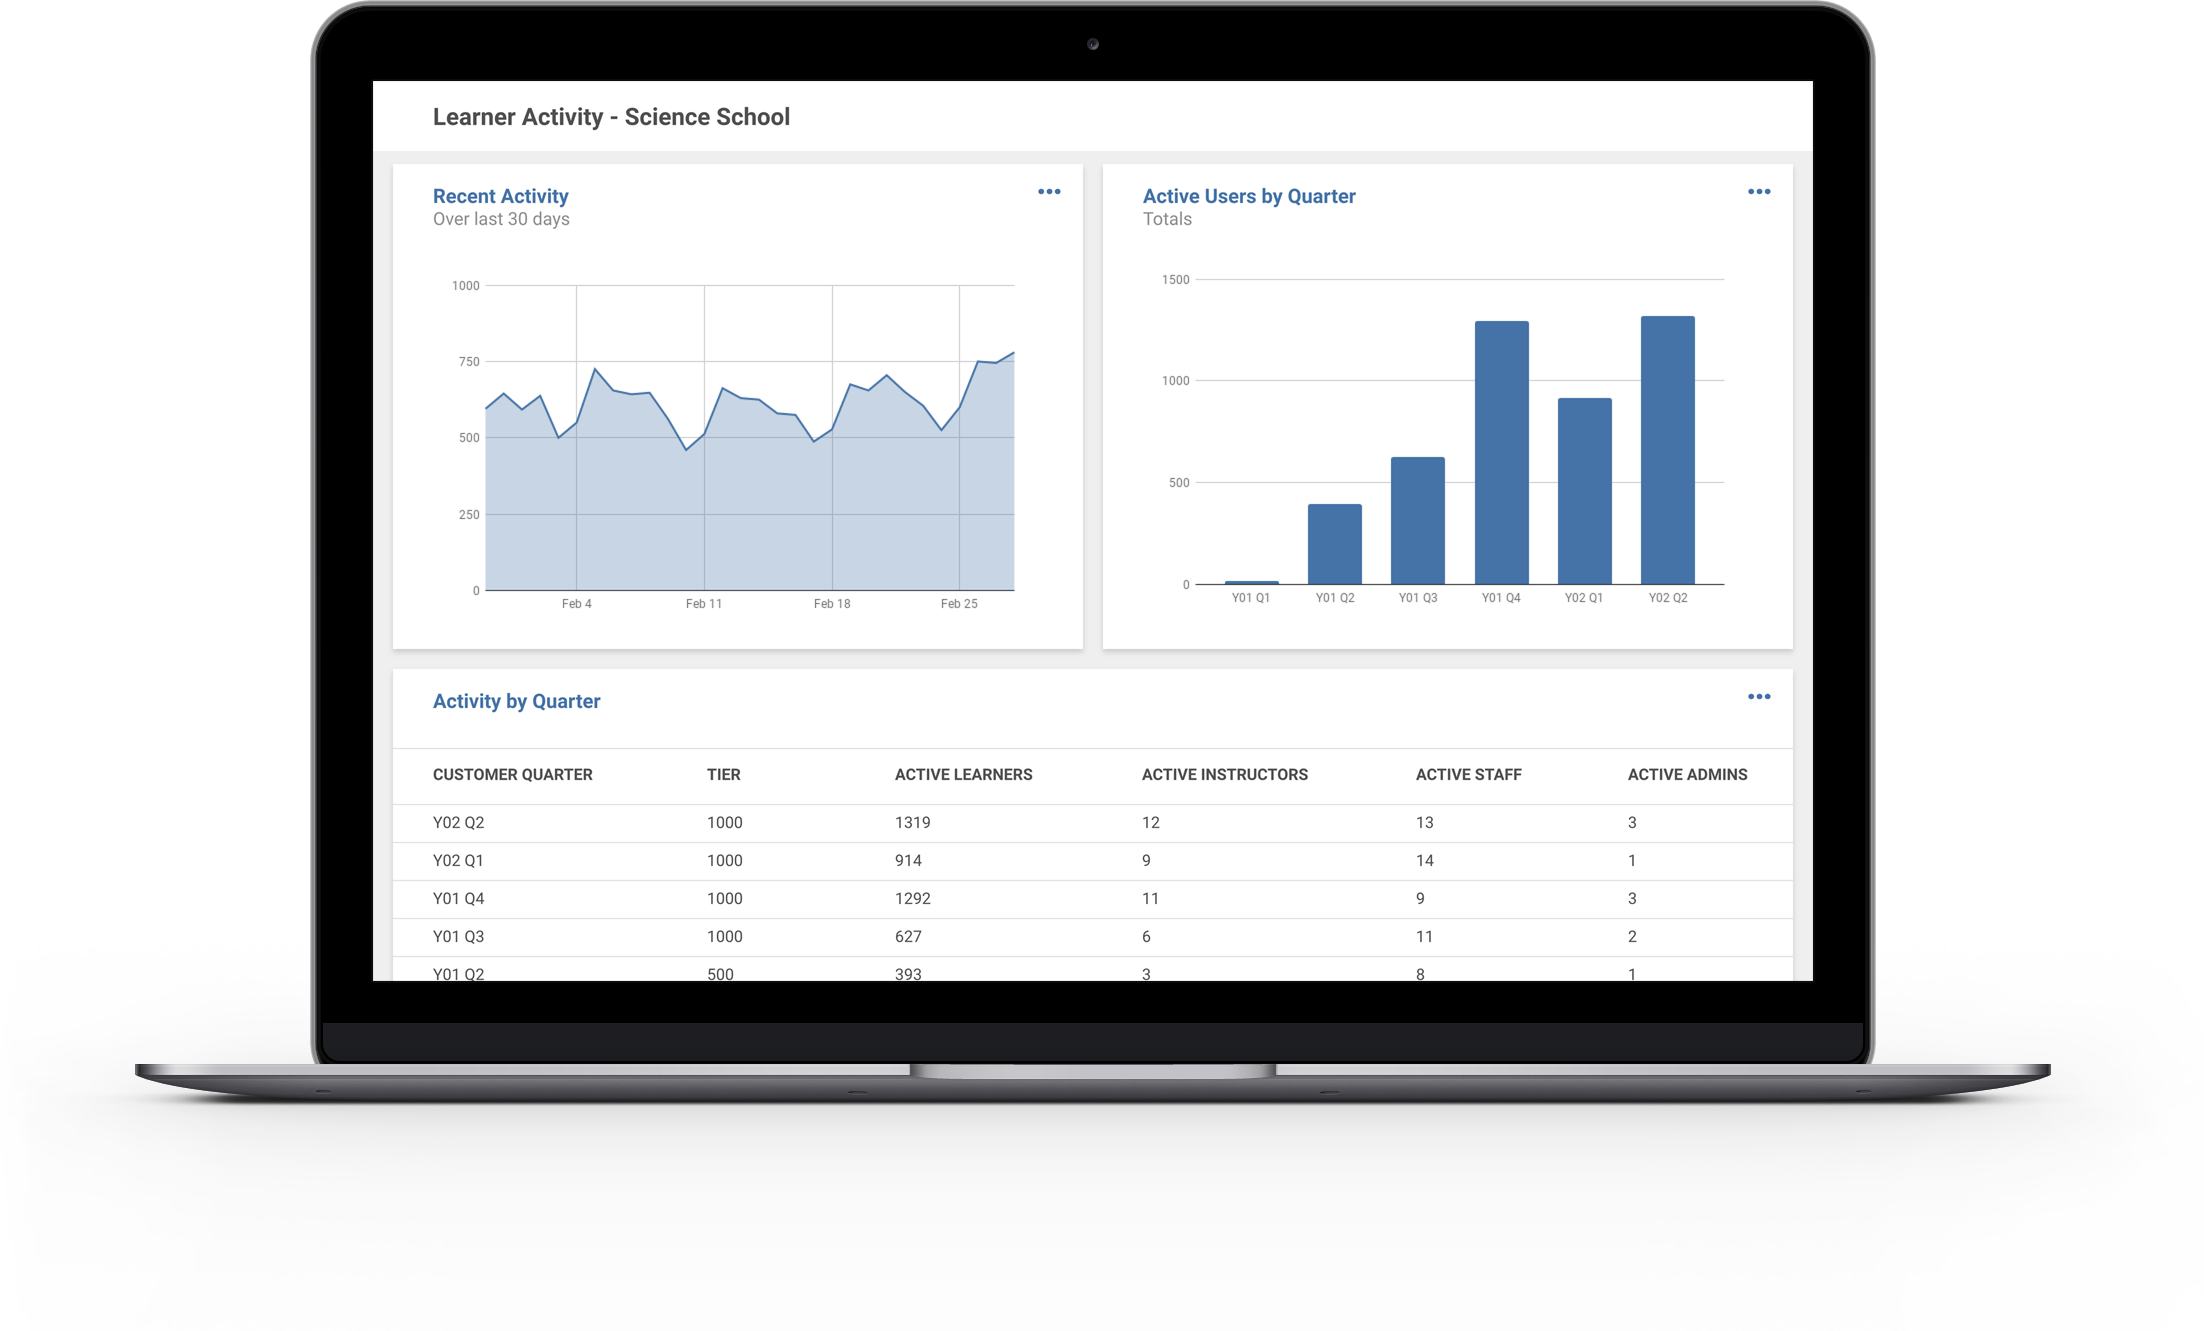
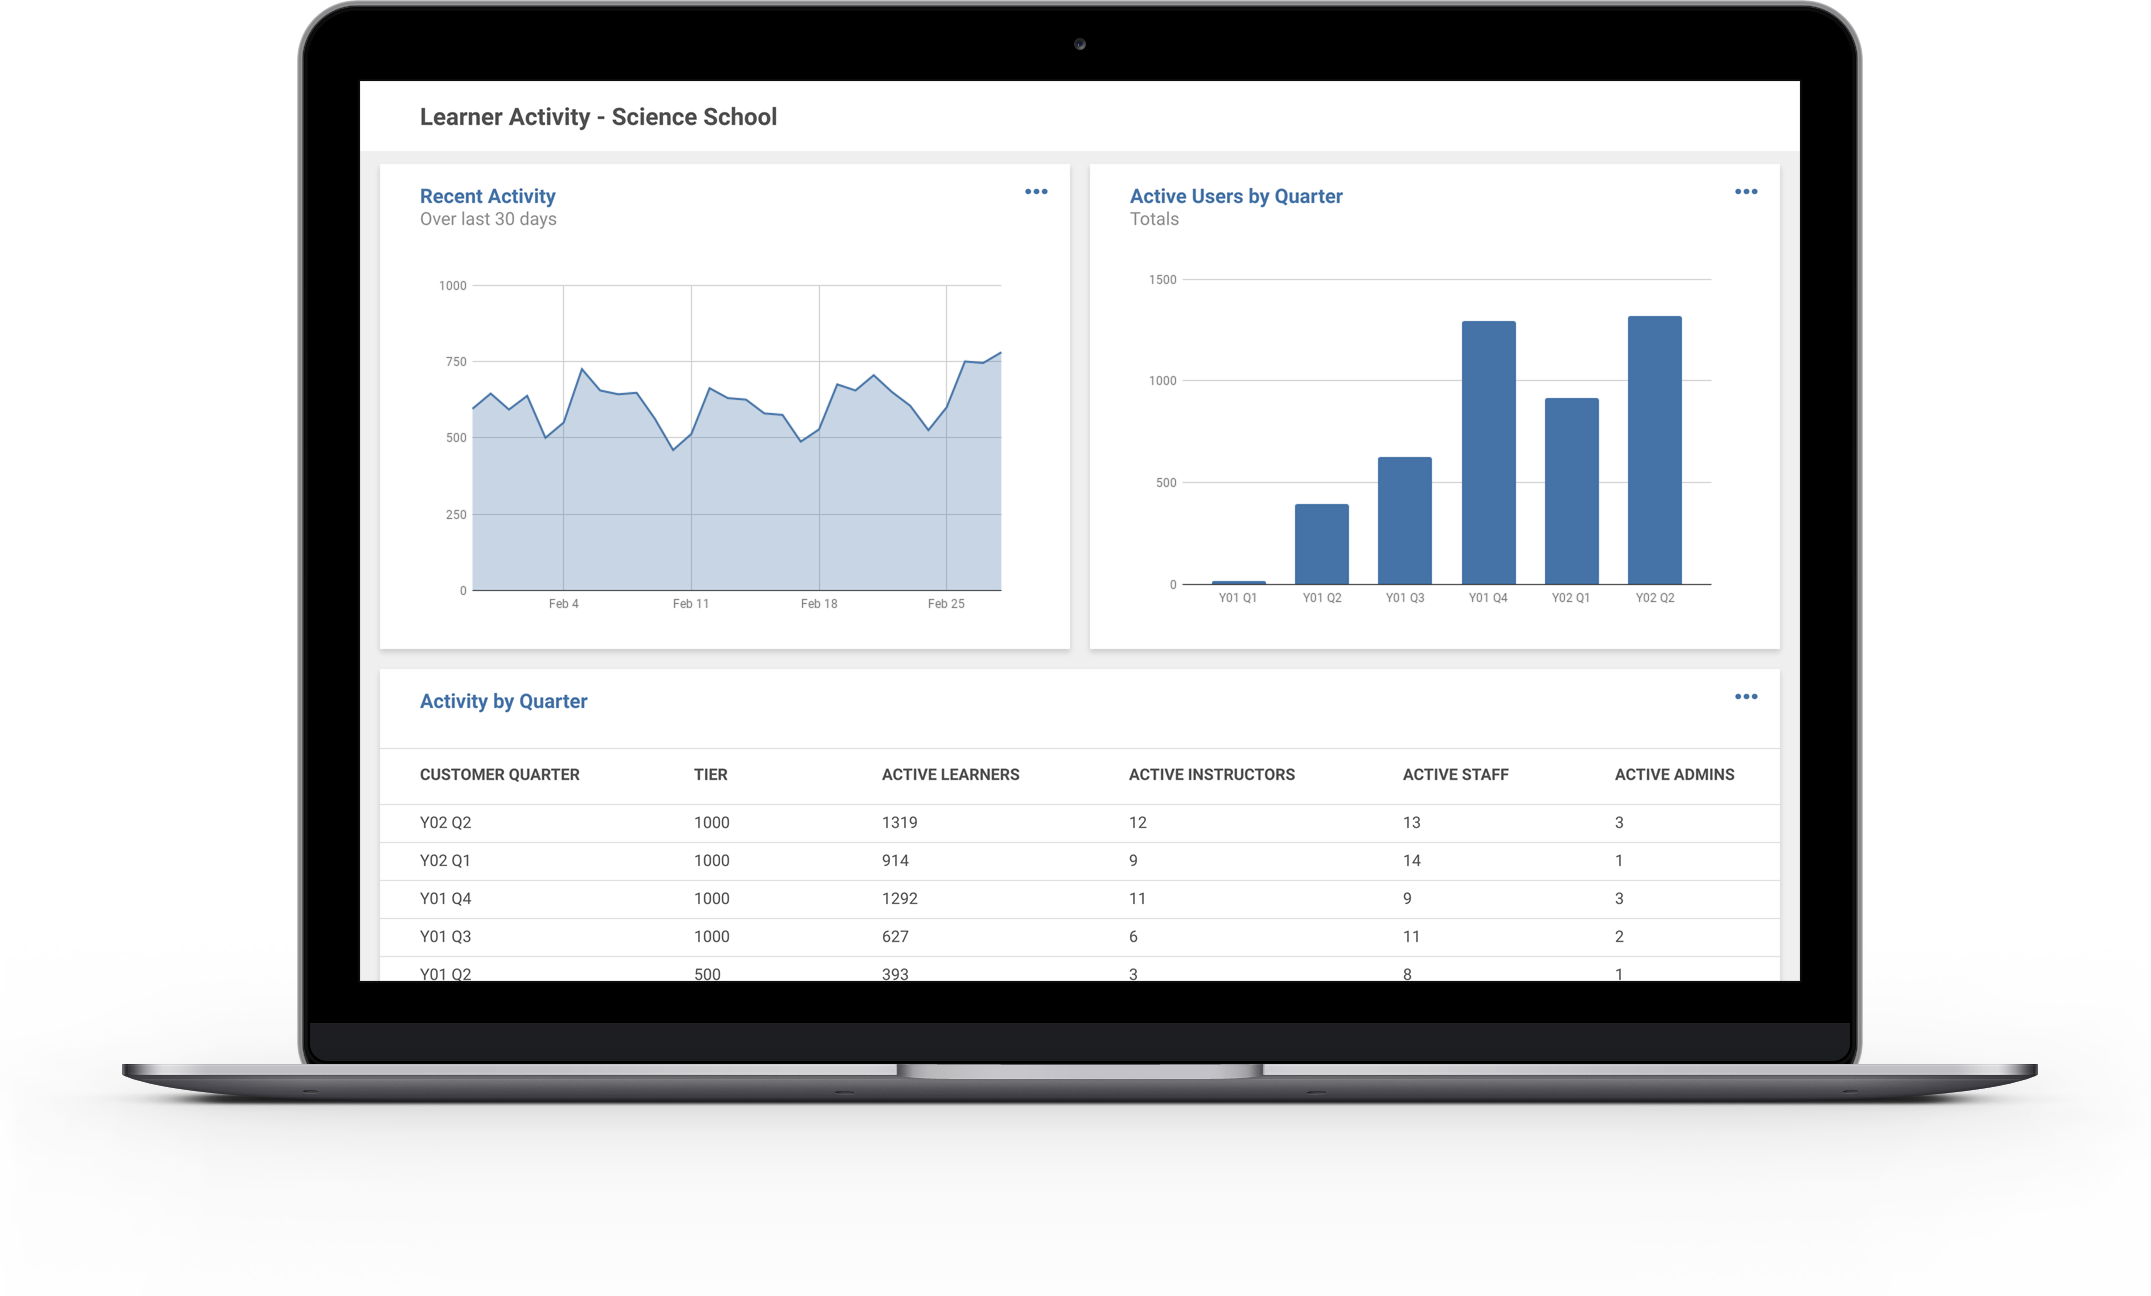
preprocess assets into images
This does crop-to-content and flatten with white background, so that
when gatsby-transformer-sharp converts to jpg the background won't be
black.

diff --git a/src/pages/index.js b/src/pages/index.js
@@ -99,7 +99,7 @@ export default IndexPage
 export const query = graphql`
   fragment fluidImage on File {
     childImageSharp {
-      fluid(maxWidth: 1024, toFormat: JPG) {
+      fluid(maxWidth: 1024, toFormat: JPG, quality: 75) {
         ...GatsbyImageSharpFluid
       }
     }
